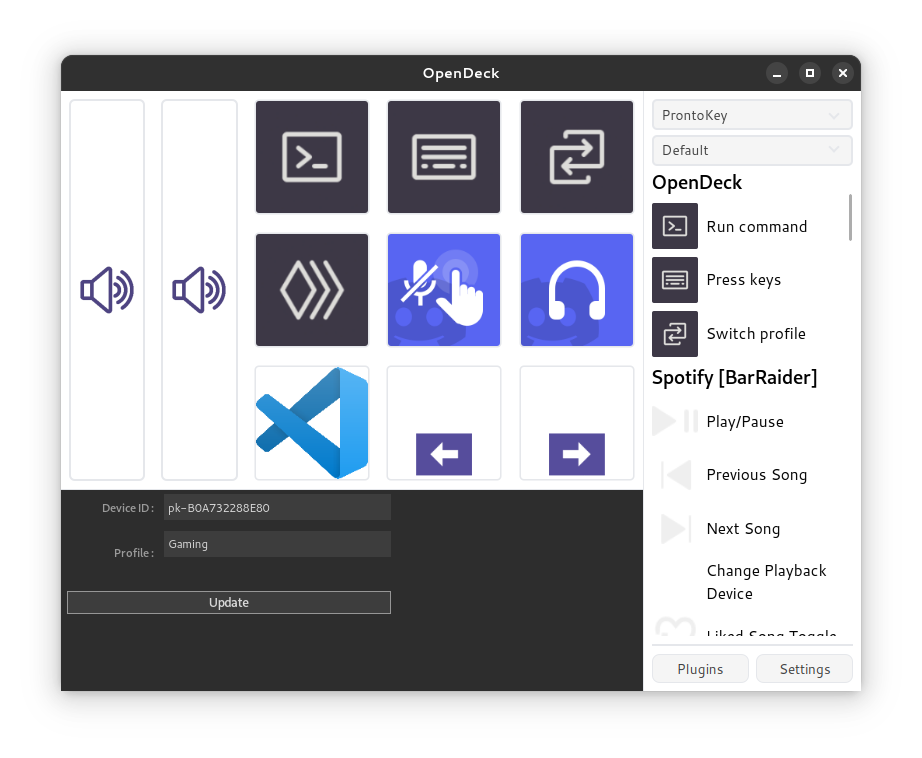
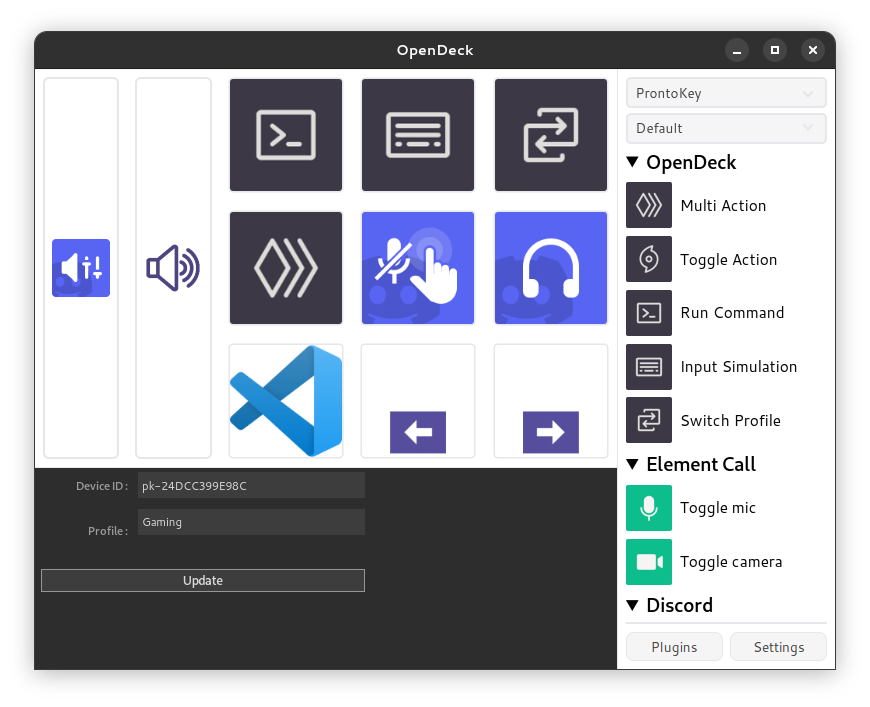
Update screenshots and README

Changed region(s): [[0.031, 0.0311, 0.9931, 0.9646]]

diff --git a/README.md b/README.md
@@ -4,6 +4,8 @@ OpenDeck is a desktop application for interfacing between human interface device
 
 OpenDeck supports ProntoKey, Elgato Stream Deck and AKP153 (not AKP153e) hardware on all three major desktop platforms. If you would like to contribute support for additional hardware (e.g. Loupedeck) feel free to reach out on any of the support forums and make a pull request!
 
+If you would like to support development of OpenDeck, consider [sponsoring me](https://github.com/sponsors/ninjadev64) on GitHub Sponsors!
+
 ## Installation
 
 ### GNU+Linux
@@ -42,9 +44,7 @@ OpenDeck supports ProntoKey, Elgato Stream Deck and AKP153 (not AKP153e) hardwar
 
 ### How do I...?
 
-To create a Multi Action, drag an action from the list onto another existing action in your profile. This should result in a Multi Action being created with those two actions. If nothing happens, it's likely that one or both of the actions don't support being in a Multi Action.
-
-To view or modify an action's settings, left-click on it to display its property inspector. To remove an action or Multi Action, right-click on it and choose "Delete" from the context menu.
+To view or modify an action's settings, left-click on it to display its property inspector. To remove an action, right-click on it and choose "Delete" from the context menu.
 
 To edit an action's appearance, right-click on it and select "Edit" in the context menu. You should then be able to customise the image and title of each of its states. To choose an image from your device: left-click on the image, to reset it to the plugin-provided default: right-click on the image, and to remove the image entirely: CTRL+right-click on the image.
 
